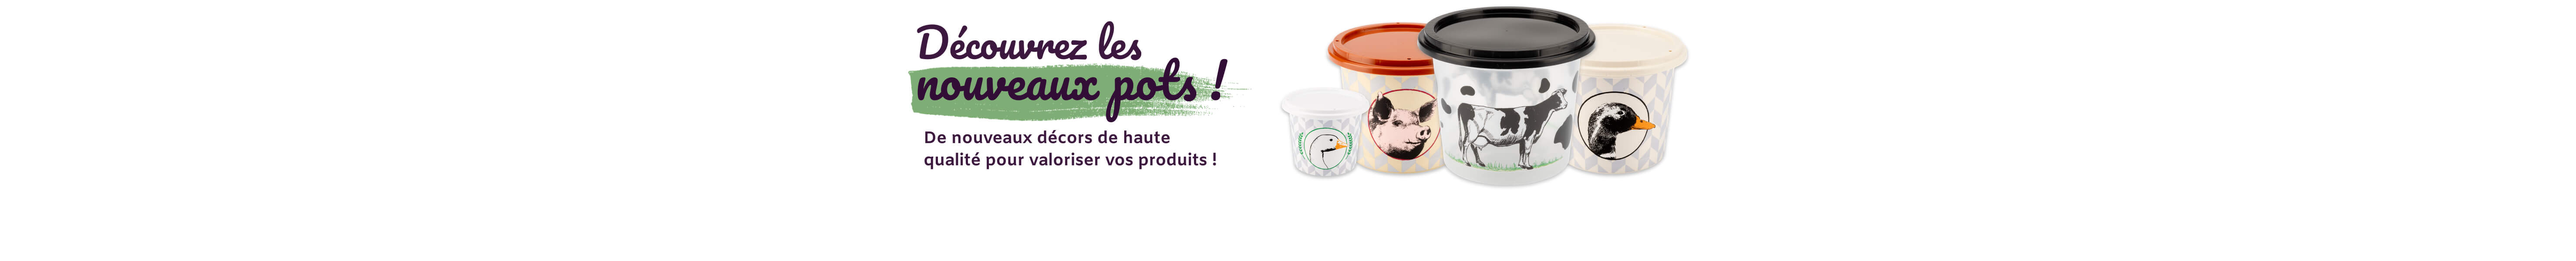
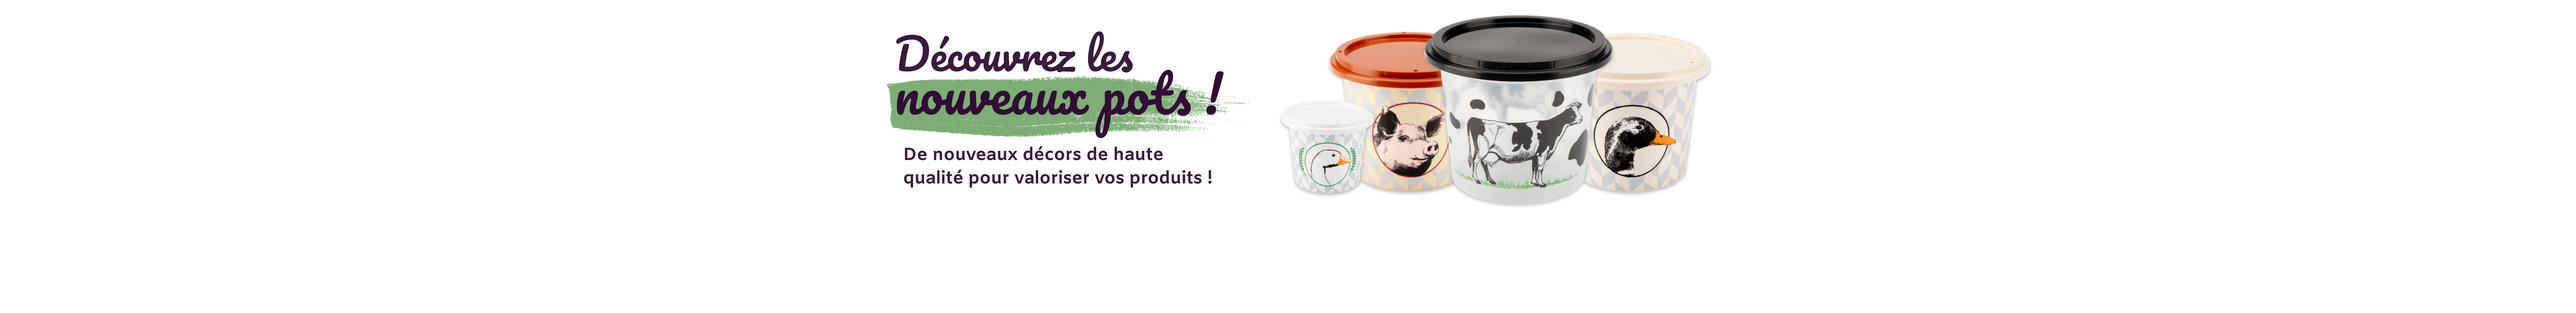
Adjustments

Changed region(s): [[0.3421, 0.03, 0.6842, 0.72]]

diff --git a/MonsterLab-Carty-Jekyll/index.md b/MonsterLab-Carty-Jekyll/index.md
@@ -23,8 +23,8 @@ keywords: Carty, Cartybox, Barquette, Barquette avec couvercle, Barquette micro-
             <div class="wrapper relative hc-relative-banner">
                 <div class="row ">
                     <div class="col-lg-12 col-md-12 col-xs-12 col-sm-12">
-                         <a href="{{ site.url }}/cartybox.html">
-                         <img src="{{ site.url }}/assets/images/index/3foisOui.jpg" alt="Dites 3 fois Oui à la Cartybox">
+                         <a href="{{ site.url }}/pots-carty.html">
+                         <img src="{{ site.url }}/assets/images/index/potscarty.jpg" alt="Découvrez les nouveaux pots carty !">
                          </a>
                         </div>
                    </div>
